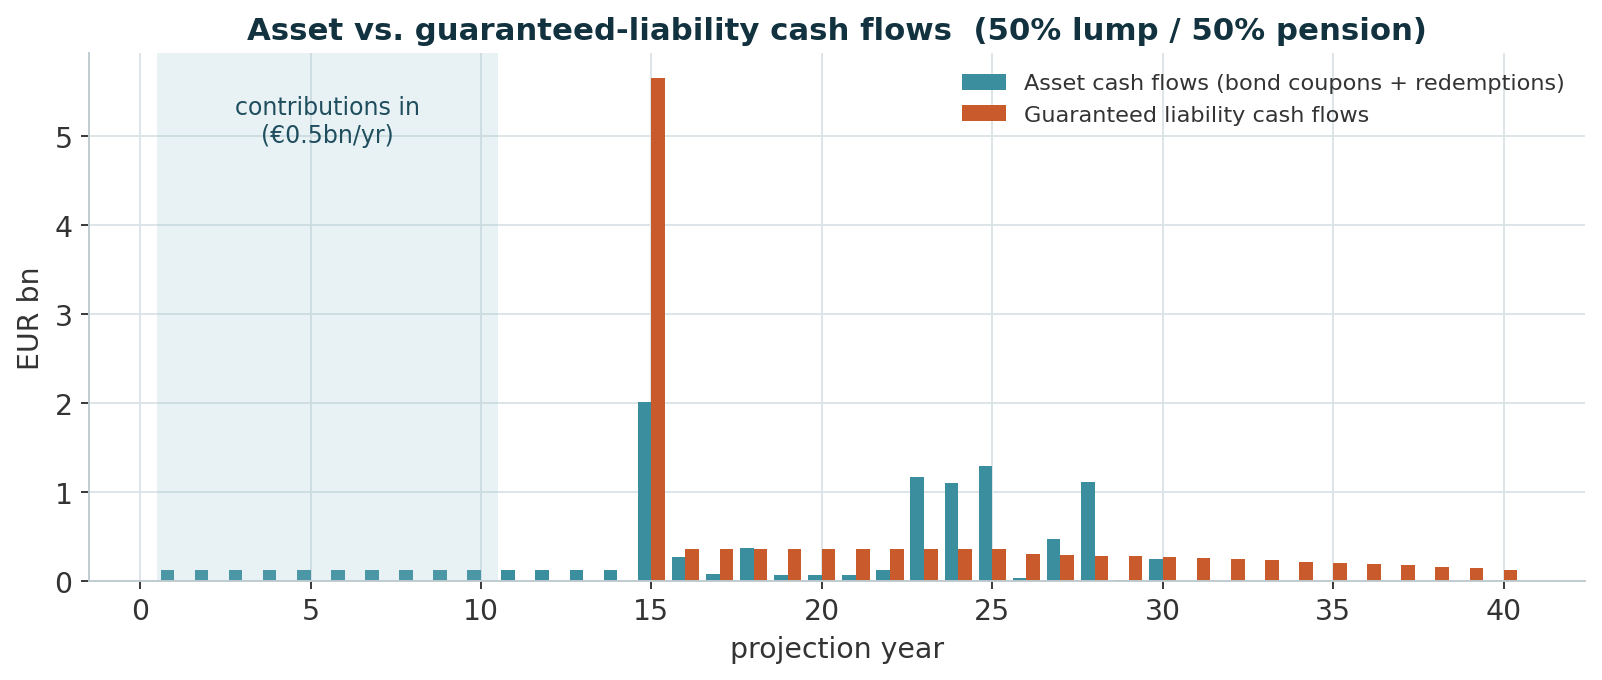
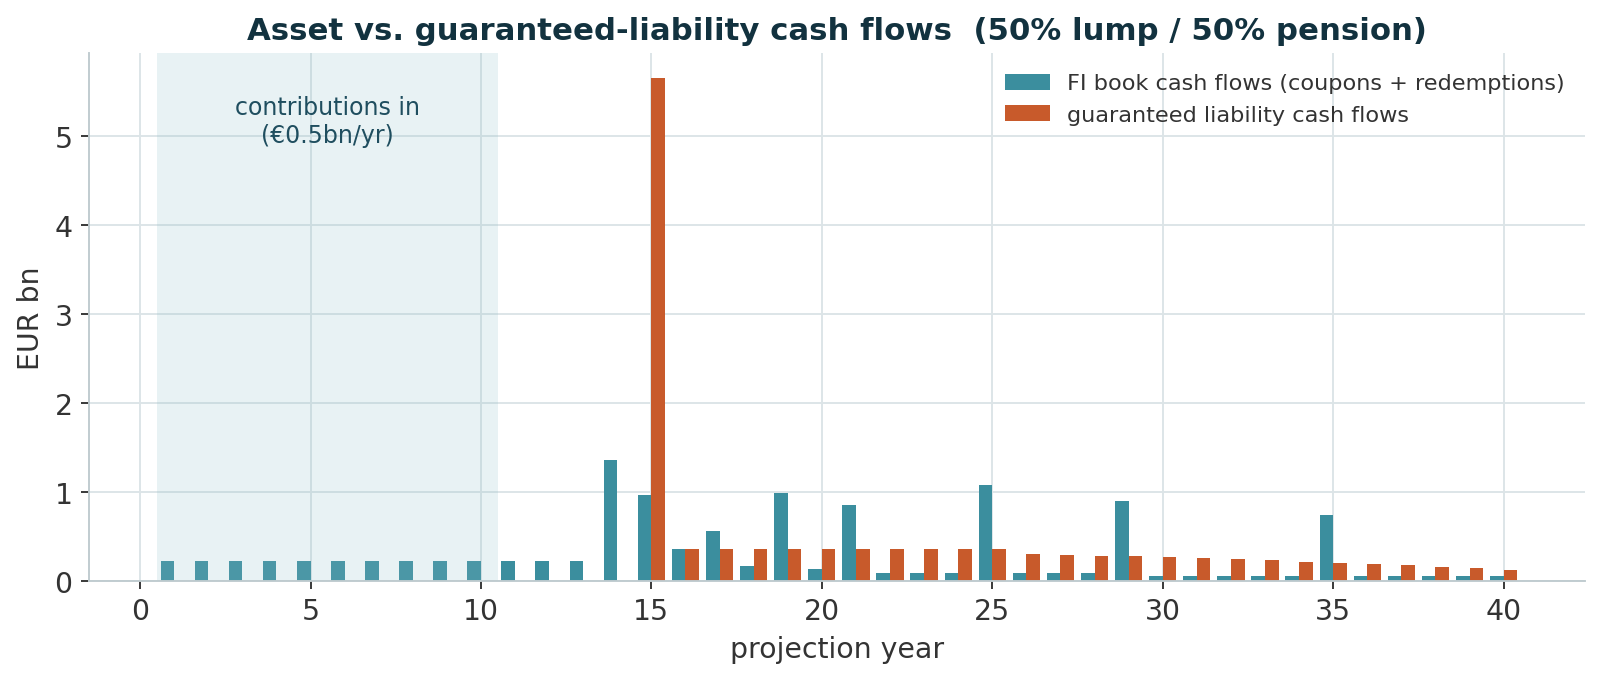
Case 3b: refresh all deck charts against the current pipeline
- cf_annual / cf_cumulative now read results_v2/book_cf_wide.csv (the held
  cash-flow-dedicated two-stage FI book) instead of the old
  results/cashflow_matching.csv teammate book.
- profit_share picks up the year-50 return-book projection.
- cf_match_fi added to the make_charts __main__ run.
- election / var_bridge / stress / mc_year15 / krd / rsp_weights and lc_01..07
  re-run, byte-identical (already current).

Deck not rebuilt.

diff --git a/Case 3/presentation/make_charts.py b/Case 3/presentation/make_charts.py
@@ -55,13 +55,18 @@ def _save(fig, name):
 
 
 # --------------------------------------------------------------------------- #
+def _book_cf():
+    d = pd.read_csv(CASE / "results_v2" / "book_cf_wide.csv")   # held two-stage book
+    return d[d["year"] <= 50].rename(columns={"year": "projection_year"})
+
+
 def cf_annual():
-    d = pd.read_csv(CASE / "results" / "cashflow_matching.csv")
+    d = _book_cf()
     d = d[d["projection_year"] <= 40]
     x = d["projection_year"].to_numpy()
     fig, ax = plt.subplots(figsize=(9.6, 4.2))
-    ax.bar(x - 0.2, d["asset_cf_eur"] / 1e9, 0.4, color=TEAL, label="Asset cash flows (bond coupons + redemptions)")
-    ax.bar(x + 0.2, d["liability_cf_eur"] / 1e9, 0.4, color=ORANGE, label="Guaranteed liability cash flows")
+    ax.bar(x - 0.2, d["asset_cf_eur"] / 1e9, 0.4, color=TEAL, label="FI book cash flows (coupons + redemptions)")
+    ax.bar(x + 0.2, d["liability_cf_eur"] / 1e9, 0.4, color=ORANGE, label="guaranteed liability cash flows")
     ax.axvspan(0.5, 10.5, color=TEALL, alpha=0.20, lw=0)
     ax.text(5.5, ax.get_ylim()[1] * 0.92, "contributions in\n(€0.5bn/yr)", ha="center", va="top",
             fontsize=10, color=DTEAL)
@@ -74,17 +79,17 @@ def cf_annual():
 
 
 def cf_cumulative():
-    d = pd.read_csv(CASE / "results" / "cashflow_matching.csv")
+    d = _book_cf()
     x = d["projection_year"].to_numpy()
+    ca = np.cumsum(d["asset_cf_eur"].to_numpy()) / 1e9
+    cl = np.cumsum(d["liability_cf_eur"].to_numpy()) / 1e9
     fig, ax = plt.subplots(figsize=(9.6, 4.2))
-    ax.plot(x, d["cumulative_asset_cf_eur"] / 1e9, color=TEAL, lw=2.6, label="cumulative asset cash flow")
-    ax.plot(x, d["cumulative_liability_cf_eur"] / 1e9, color=ORANGE, lw=2.6,
-            label="cumulative liability cash flow")
-    ax.fill_between(x, d["cumulative_asset_cf_eur"] / 1e9, d["cumulative_liability_cf_eur"] / 1e9,
-                    color=GRID, alpha=0.7)
+    ax.plot(x, ca, color=TEAL, lw=2.6, label="cumulative FI-book cash flow")
+    ax.plot(x, cl, color=ORANGE, lw=2.6, label="cumulative liability cash flow")
+    ax.fill_between(x, ca, cl, color=GRID, alpha=0.7)
     ax.set_xlabel("projection year")
     ax.set_ylabel("EUR bn, cumulative")
-    ax.set_title("Cumulative coverage – bond book + reinvestment vs. guaranteed outflows")
+    ax.set_title("Cumulative coverage – FI book (undiscounted) vs. guaranteed outflows")
     ax.legend(frameon=False, fontsize=10, loc="upper left")
     _style(ax)
     _save(fig, "cf_cumulative.png")
@@ -279,6 +284,7 @@ def rsp_weights():
 if __name__ == "__main__":
     cf_annual()
     cf_cumulative()
+    cf_match_fi()
     election()
     profit_share()
     var_bridge()
